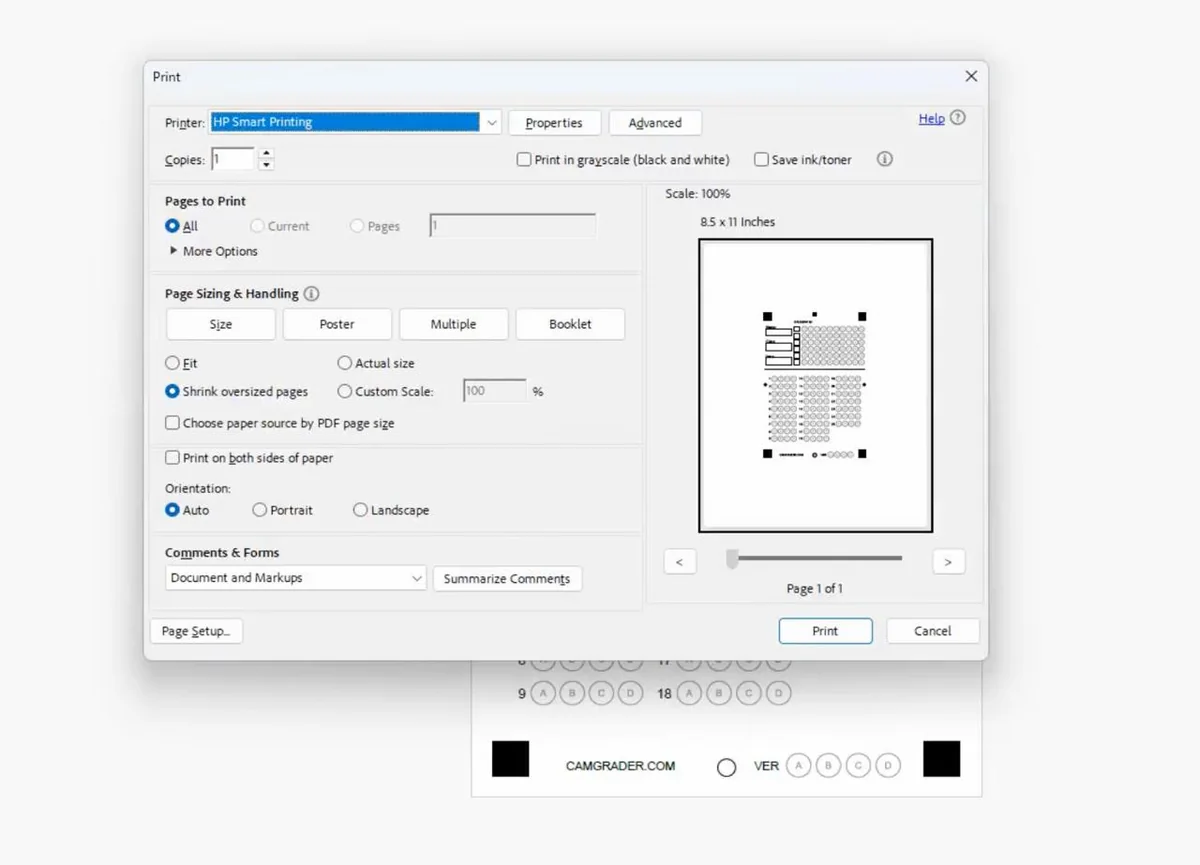
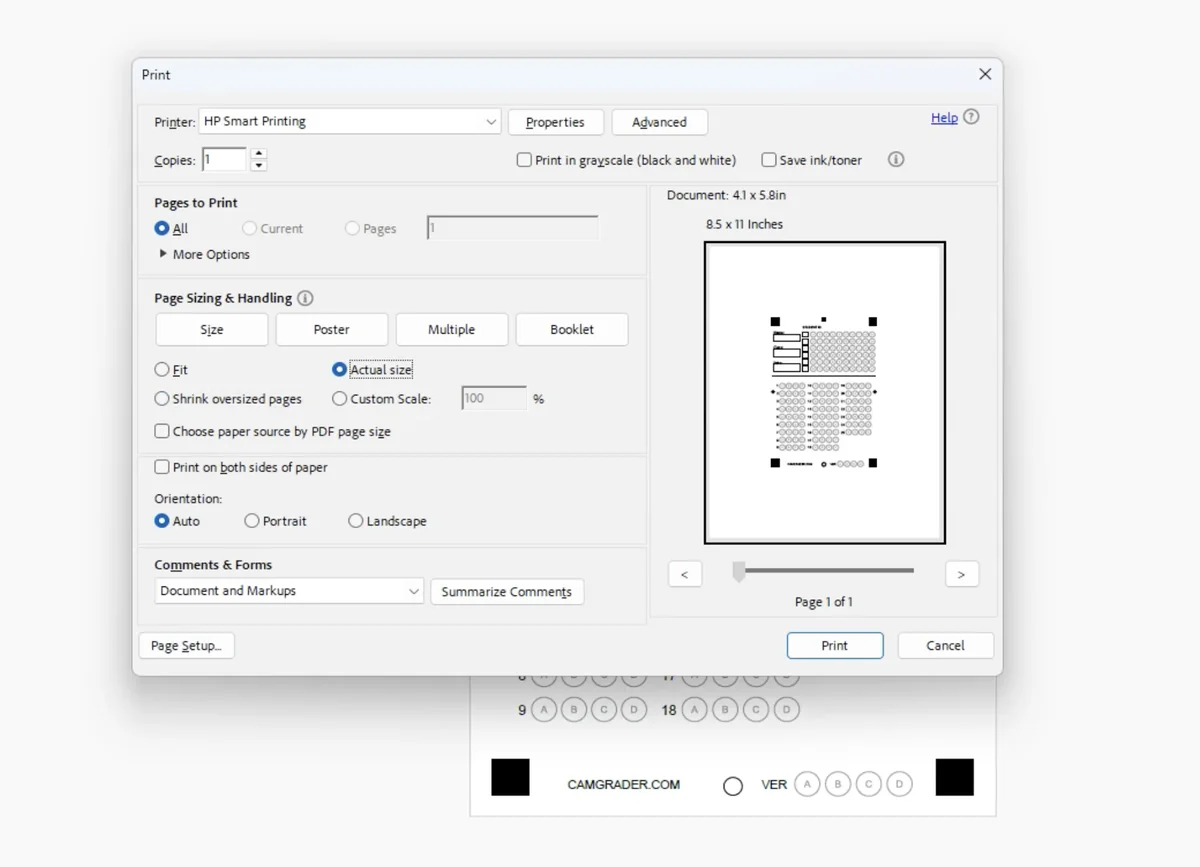
s

diff --git a/support/deploy-your-first-test/choose-sheet-format/index.html b/support/deploy-your-first-test/choose-sheet-format/index.html
@@ -17,26 +17,8 @@
   <link rel="preconnect" href="https://fonts.googleapis.com">
   <link rel="preconnect" href="https://fonts.gstatic.com" crossorigin>
   <link href="https://fonts.googleapis.com/css2?family=Manrope:wght@400;500;600;700;800&display=swap" rel="stylesheet">
-  <link rel="stylesheet" href="../../../css/main.css">
-
-  <style>
-    .tut-screenshot {
-      background: #f0ebf8;
-      border: 2px dashed rgba(94,64,116,0.3);
-      border-radius: var(--radius-lg);
-      min-height: 200px;
-      margin: 16px 0 32px;
-      display: flex;
-      align-items: center;
-      justify-content: center;
-      padding: 32px 24px;
-      text-align: center;
-      color: var(--text-secondary);
-      font-size: 13px;
-      font-style: italic;
-      line-height: 1.6;
-    }
-  </style>
+  <link rel="stylesheet" href="../../../css/main.css?v=1">
+  <script src="../../../js/tut-lightbox.js?v=1" defer></script>
 </head>
 <body class="util-body">
 
@@ -52,24 +34,41 @@
 
 <div class="util-wrap">
   <h1 class="util-h1">Choose the right sheet format</h1>
-  <p class="util-meta"><a href="../../">Help Center</a> · <a href="../">Deploy Your First Test</a> · 2 min</p>
+  <p class="util-meta"><a href="../../">Help Center</a> · <a href="../">Deploy Your First Test</a> · Choose the Right Sheet Format</p>
   <p class="util-p">CamGrader has three sheet sizes: 25Q, 50Q, and 100Q. You don't need an exact match for your test length. Pick any sheet size that covers your question count.</p>
 
-  <h2 class="util-h2" style="font-size:16px;margin-top:36px;">Step 1: Count your test questions</h2>
+  <h2 class="util-h2">1. Count your test questions</h2>
   <p class="util-p">Look at your test and note how many questions it has. That number determines the minimum sheet size you need.</p>
-  <div class="tut-screenshot">Screenshot: A sample paper test with 20 multiple-choice questions visible. The question count (20) is the focus.</div>
 
-  <h2 class="util-h2" style="font-size:16px;margin-top:28px;">Step 2: Pick the smallest sheet that fits</h2>
-  <p class="util-p">Use the 25Q sheet for tests up to 25 questions. Use 50Q for up to 50 questions. Use 100Q for up to 100 questions. You can also use a larger sheet. Extra bubbles are simply left blank.</p>
-  <div class="tut-screenshot">Screenshot: Three answer sheets laid side by side: 25Q (shortest), 50Q (medium), and 100Q (longest), with a label under each showing its question capacity.</div>
+  <hr class="tut-divider">
 
-  <h2 class="util-h2" style="font-size:16px;margin-top:28px;">Step 3: Students leave extra bubbles blank</h2>
-  <p class="util-p">If you use a 25Q sheet for a 20-question test, students fill questions 1–20 and leave 21–25 blank. CamGrader only grades the questions defined in the answer key and ignores the rest.</p>
-  <div class="tut-screenshot">Screenshot: A filled 25Q sheet where questions 1–20 have bubbles filled in and questions 21–25 are visibly empty. An annotation or callout highlights the unused rows.</div>
+  <div class="tut-step">
+    <div class="tut-step-text">
+      <h2 class="util-h2">2. Pick the smallest sheet that fits</h2>
+      <p class="util-p">Use the 25Q sheet for tests up to 25 questions. Use 50Q for up to 50 questions. Use 100Q for up to 100 questions. You can also use a larger sheet - extra bubbles are simply left blank.</p>
+      <p class="util-p">When you create a key that's shorter than the sheet you picked, CamGrader shows a quick confirmation before saving, so you can double check you meant to leave the extra questions blank.</p>
+    </div>
+    <div class="tut-shots">
+      <img class="tut-shot" src="../../../images/support/deploy-your-first-test/choose-sheet-format/02-confirm-length.webp" alt="Confirmation dialog: Create 20-Q Key? Questions 21-25 are blank.">
+    </div>
+  </div>
 
-  <h2 class="util-h2" style="font-size:16px;margin-top:28px;">Step 4: CamGrader grades only the key questions</h2>
-  <p class="util-p">After scanning, the results screen shows scores out of the number of questions in the key, not out of the total sheet capacity. A 20-question key on a 25Q sheet shows scores out of 20.</p>
-  <div class="tut-screenshot">Screenshot: Student result screen showing "17 / 20" with a 25Q sheet in the background. The score denominator matches the key (20), not the sheet capacity (25).</div>
+  <hr class="tut-divider">
+
+  <h2 class="util-h2">3. Extra bubbles are left blank and ignored</h2>
+  <p class="util-p">If you use a 25Q sheet for a 20-question test, students fill questions 1-20 and leave 21-25 blank. CamGrader only grades the questions defined in the answer key and ignores the rest - after scanning, the results screen shows scores out of the key length (20), not the sheet's full capacity (25).</p>
+
+  <hr class="tut-divider">
+
+  <div class="tut-step">
+    <div class="tut-step-text">
+      <h2 class="util-h2">4. Scanning works the same either way</h2>
+      <p class="util-p">CamGrader detects a sheet from its four corner markers, not from how many bubbles are actually filled in. A 20-question key on a 25Q sheet scans exactly like any other sheet - there's nothing extra to set up for the unused rows.</p>
+    </div>
+    <div class="tut-shots">
+      <img class="tut-shot" src="../../../images/support/deploy-your-first-test/choose-sheet-format/04-scan-camera.webp" alt="Scan camera view with all four corner alignment guides locked on and Hold still confirmation showing">
+    </div>
+  </div>
 
   <hr class="util-divider">
 
@@ -77,6 +76,13 @@
     <h2 class="util-h2">Still need help?</h2>
     <p class="util-p">Can't find what you're looking for? We're happy to help.</p>
     <a href="../../../contact" class="btn btn-primary">Contact us</a>
+  </div>
+</div>
+
+<div class="tut-lightbox">
+  <div class="tut-lightbox-inner">
+    <button type="button" class="tut-lightbox-close" aria-label="Close">&times;</button>
+    <img src="" alt="">
   </div>
 </div>
 

diff --git a/support/billing/manage-your-subscription/index.html b/support/billing/manage-your-subscription/index.html
@@ -52,7 +52,7 @@
 
 <div class="util-wrap">
   <h1 class="util-h1">Manage or cancel your subscription</h1>
-  <p class="util-meta"><a href="../../">Help Center</a> · <a href="../">Account &amp; Billing</a> · 3 min</p>
+  <p class="util-meta"><a href="../../">Help Center</a> · <a href="../">Account &amp; Billing</a> · Manage or Cancel Your Subscription</p>
   <p class="util-p">All subscription management is handled through your Stripe account portal. You can view invoices, update your payment method, or cancel at any time without contacting us.</p>
 
   <h2 class="util-h2" style="font-size:16px;margin-top:36px;">Step 1: Open your account management page</h2>

diff --git a/support/export/export-student-results/index.html b/support/export/export-student-results/index.html
@@ -52,7 +52,7 @@
 
 <div class="util-wrap">
   <h1 class="util-h1">Export student results</h1>
-  <p class="util-meta"><a href="../../">Help Center</a> · <a href="../">Results &amp; Export</a> · 2 min</p>
+  <p class="util-meta"><a href="../../">Help Center</a> · <a href="../">Results &amp; Export</a> · Export Student Results</p>
   <p class="util-p">For each student, you can export a PDF that includes their scanned answer sheet thumbnail and a complete per-question breakdown. Useful for parent conferences, student feedback, or your own records.</p>
 
   <h2 class="util-h2" style="font-size:16px;margin-top:36px;">Step 1: Open the test and tap a student</h2>

diff --git a/support/export/export-grades-csv/index.html b/support/export/export-grades-csv/index.html
@@ -52,7 +52,7 @@
 
 <div class="util-wrap">
   <h1 class="util-h1">Export grades to CSV</h1>
-  <p class="util-meta"><a href="../../">Help Center</a> · <a href="../">Results &amp; Export</a> · 2 min</p>
+  <p class="util-meta"><a href="../../">Help Center</a> · <a href="../">Results &amp; Export</a> · Export Grades to CSV</p>
   <p class="util-p">Once all sheets are scanned, you can export the full class results as a CSV file. The file opens in Google Sheets, Excel, Canvas, or any gradebook that accepts CSV.</p>
 
   <h2 class="util-h2" style="font-size:16px;margin-top:36px;">Step 1: Open the test results</h2>

diff --git a/support/deploy-your-first-test/regrade-a-test/index.html b/support/deploy-your-first-test/regrade-a-test/index.html
@@ -52,7 +52,7 @@
 
 <div class="util-wrap">
   <h1 class="util-h1">Re-grade a test</h1>
-  <p class="util-meta"><a href="../../">Help Center</a> · <a href="../">Deploy Your First Test</a> · 2 min</p>
+  <p class="util-meta"><a href="../../">Help Center</a> · <a href="../">Deploy Your First Test</a> · Re-grade a Test</p>
   <p class="util-p">Made a mistake on the key? Decided to drop a question? Edit the answer key at any time and CamGrader instantly recalculates every student's score. No rescanning needed.</p>
 
   <h2 class="util-h2" style="font-size:16px;margin-top:36px;">Step 1: Open the test</h2>

diff --git a/support/billing/upgrade-to-personal/index.html b/support/billing/upgrade-to-personal/index.html
@@ -52,7 +52,7 @@
 
 <div class="util-wrap">
   <h1 class="util-h1">Upgrade to CamGrader Personal</h1>
-  <p class="util-meta"><a href="../../">Help Center</a> · <a href="../">Account &amp; Billing</a> · 3 min</p>
+  <p class="util-meta"><a href="../../">Help Center</a> · <a href="../">Account &amp; Billing</a> · Upgrade to CamGrader Personal</p>
   <p class="util-p">CamGrader Personal removes the 50-scan monthly limit and gives you unlimited student scans. Here's how to subscribe.</p>
 
   <h2 class="util-h2" style="font-size:16px;margin-top:36px;">What's included</h2>

diff --git a/support/deploy-your-first-test/download-answer-sheets/index.html b/support/deploy-your-first-test/download-answer-sheets/index.html
@@ -34,7 +34,7 @@
 
 <div class="util-wrap">
   <h1 class="util-h1">Download and print answer sheets</h1>
-  <p class="util-meta"><a href="../../">Help Center</a> · <a href="../">Deploy Your First Test</a> · 3 min</p>
+  <p class="util-meta"><a href="../../">Help Center</a> · <a href="../">Deploy Your First Test</a> · Download and Print Answer Sheets</p>
   <p class="util-p">CamGrader provides ready-to-print bubble sheets in multiple formats and darkness levels. Here's how to get the right one for your printer.</p>
 
   <div class="tut-step">

diff --git a/support/deploy-your-first-test/index.html b/support/deploy-your-first-test/index.html
@@ -47,7 +47,7 @@
 
 <div class="util-wrap">
   <h1 class="util-h1">Deploy Your First Test</h1>
-  <p class="util-meta">Tutorials · Deploy Your First Test</p>
+  <p class="util-meta"><a href="../">Help Center</a> · Deploy Your First Test</p>
   <p class="util-p">Ready to hand a test to your class? These tutorials cover printing sheets, scanning student results, and managing them afterward.</p>
 
   <div class="tut-list">

diff --git a/support/quick-start/index.html b/support/quick-start/index.html
@@ -47,7 +47,7 @@
 
 <div class="util-wrap">
   <h1 class="util-h1">Quick Start</h1>
-  <p class="util-meta">Tutorials · Quick Start</p>
+  <p class="util-meta"><a href="../">Help Center</a> · Quick Start</p>
   <p class="util-p">New to CamGrader? Start here. These three tutorials walk you through creating your first test, scanning it, and using the online key generator.</p>
 
   <div class="tut-list">

diff --git a/support/export/index.html b/support/export/index.html
@@ -48,7 +48,7 @@
 
 <div class="util-wrap">
   <h1 class="util-h1">Results &amp; Export</h1>
-  <p class="util-meta">Tutorials · Results &amp; Export</p>
+  <p class="util-meta"><a href="../">Help Center</a> · Results &amp; Export</p>
   <p class="util-p">Get your grades out of CamGrader and into your gradebook or share them with students.</p>
 
   <div class="tut-list">

diff --git a/support/billing/index.html b/support/billing/index.html
@@ -48,7 +48,7 @@
 
 <div class="util-wrap">
   <h1 class="util-h1">Account &amp; Billing</h1>
-  <p class="util-meta">Tutorials · Account &amp; Billing</p>
+  <p class="util-meta"><a href="../">Help Center</a> · Account &amp; Billing</p>
   <p class="util-p">Managing your CamGrader Personal subscription.</p>
 
   <div class="tut-list">
